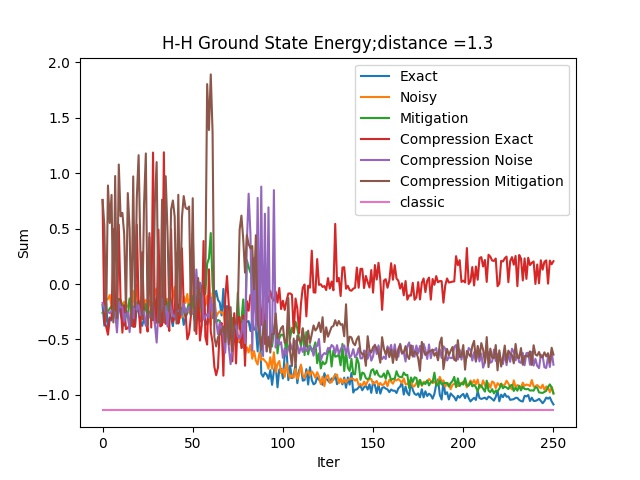
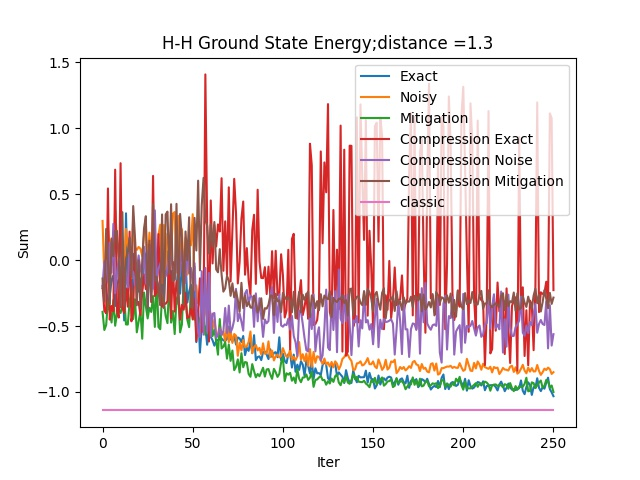
new exp

diff --git a/vqe/vqe_qiskit_noise_opt_H2_step_comp.py b/vqe/vqe_qiskit_noise_opt_H2_step_comp.py
@@ -66,7 +66,7 @@ def get_fixing_abs(weight,fix_para):
     fixing_abs= np.abs(weight-fix_para)
     return fixing_abs
 
-def compression(weight,percent=50):
+def compression(weight,percent=70):
     fixing_para = get_fixing_parameters(weight)
     weight_temp = get_fixing_abs(weight,fixing_para)
     percentile = np.percentile(weight_temp, percent)  # get a value for this percentitle
@@ -76,8 +76,9 @@ def compression(weight,percent=50):
 
 def store_intermediate_result(vqe,eval_count, parameters, mean, std):
     # print('intermediate res:\n')
-    print('='*50)
-    print('step {}, original Energy:{}'.format(eval_count,mean))
+    if eval_count%10 ==0:
+        print('='*50)
+        print('step {}, original Energy:{}'.format(eval_count,mean))
     # compress
     cparameters =  copy.deepcopy(parameters)
     parameters1 = compression(cparameters)
@@ -95,35 +96,54 @@ def store_intermediate_result(vqe,eval_count, parameters, mean, std):
     # print(parameters1)
     compression_length.append(len(t2))
     means = vqe.manual_energy_evaluation(parameters1)
-    print('step {}, after compression, Energy:{}'.format(eval_count,means))
+    if eval_count%10 ==0:
+        print('step {}, after compression, Energy:{}'.format(eval_count,means))
     exact_energies.append(mean)
-    compression_exact_energies.append(means)
-    return parameters1
+    # compression_exact_energies.append(means)
+    return parameters
 
 def store_intermediate_result_noise(vqe,eval_count, parameters, mean, std):
-    print('='*50)
-    print('step {}, original Energy:{}'.format(eval_count,mean))
-    print(parameters)
+    if eval_count%10 ==0:
+        print('='*50)
+        print('step {}, original Energy:{}'.format(eval_count,mean))
+    # print(parameters)
     # compress
     cparameters =  copy.deepcopy(parameters)
     parameters2 = compression(cparameters)
     means = vqe.manual_energy_evaluation(parameters2)
-    print('step {}, after compression, Energy:{}'.format(eval_count,means))
-    print(parameters2)
-    noisy_vqe_energies.append(mean)
+    if eval_count%10 ==0:
+        print('step {}, after compression, Energy:{}'.format(eval_count,means))
+    # print(parameters2)
+    # noisy_vqe_energies.append(mean)
     compression_noisy_vqe_energies.append(means)
     return parameters2
 
+def store_intermediate_result_noise_no_comp(vqe,eval_count, parameters, mean, std):
+    if eval_count%10 ==0:
+        print('='*50)
+        print('step {}, original Energy:{}'.format(eval_count,mean))
+    noisy_vqe_energies.append(mean)
+    return parameters
+
+def store_intermediate_result_noise_mitigation_no_comp(vqe,eval_count, parameters, mean, std):
+    if eval_count%10 ==0:
+        print('='*50)
+        print('step {}, original Energy:{}'.format(eval_count,mean))
+    noisy_mitigation_vqe_energies.append(mean)
+    return parameters
+
 def store_intermediate_result_noise_mitigation(vqe,eval_count, parameters, mean, std):
-    print('='*50)
-    print('step {}, original Energy:{}'.format(eval_count,mean))
+    if eval_count%10 ==0:
+        print('='*50)
+        print('step {}, original Energy:{}'.format(eval_count,mean))
     cparameters = copy.deepcopy(parameters)
     parameters2 = compression(cparameters)
     means = vqe.manual_energy_evaluation(parameters2)
-    print('step {}, after compression, Energy:{}'.format(eval_count,means))
-    noisy_mitigation_vqe_energies.append(mean)
+    if eval_count%10 ==0:
+        print('step {}, after compression, Energy:{}'.format(eval_count,means))
+    # noisy_mitigation_vqe_energies.append(mean)
     compression_noisy_mitigation_vqe_energies.append(means)
-
+    return parameters2
 
 backend = Aer.get_backend('aer_simulator')
 counts1 = []
@@ -203,58 +223,68 @@ var_form = TwoLocal(qubit_op.num_qubits,['ry','rz'], 'cry', 'circular', reps=2, 
 
 algo = VQE(qubit_op, var_form, optimizer, aux_operators=aux_ops,callback=store_intermediate_result,max_evals_grouped=32)
 vqe_result = algo.run(qi_state_vector)
-print('vqe_result:\n',vqe_result)
+# print('vqe_result:\n',vqe_result)
 vqe_result_molecule = operator.process_algorithm_result(vqe_result)
-print('vqe_result_molecule:\n',vqe_result_molecule)
+# print('vqe_result_molecule:\n',vqe_result_molecule)
 
 
-noisy_algo = VQE(qubit_op, var_form, optimizer, aux_operators=aux_ops,gradient= grad, callback=store_intermediate_result_noise,max_evals_grouped=32)
+noisy_algo = VQE(qubit_op, var_form, optimizer, aux_operators=aux_ops, callback=store_intermediate_result_noise)
 noisy_vqe_result = noisy_algo.run(qi_noise)
-print('noisy_vqe_result:\n',noisy_vqe_result)
+# print('noisy_vqe_result:\n',noisy_vqe_result)
 noisy_vqe_result_molecule = operator.process_algorithm_result(noisy_vqe_result)
-print('noisy_vqe_result_molecule:\n',noisy_vqe_result_molecule)
+# print('noisy_vqe_result_molecule:\n',noisy_vqe_result_molecule)
 
+noisy_algo = VQE(qubit_op, var_form, optimizer, aux_operators=aux_ops, callback=store_intermediate_result_noise_no_comp)
+noisy_vqe_result = noisy_algo.run(qi_noise)
+# print('noisy_vqe_result:\n',noisy_vqe_result)
+noisy_vqe_result_molecule = operator.process_algorithm_result(noisy_vqe_result)
+# print('noisy_vqe_result_molecule:\n',noisy_vqe_result_molecule)
 
-
-# noisy_mitigation_algo = VQE(qubit_op, var_form, optimizer, aux_operators=aux_ops, callback=store_intermediate_result_noise_mitigation)
-# noisy_mitigation_vqe_result = noisy_mitigation_algo.run(qi_noise_mitigation)
+noisy_mitigation_algo = VQE(qubit_op, var_form, optimizer, aux_operators=aux_ops, callback=store_intermediate_result_noise_mitigation)
+noisy_mitigation_vqe_result = noisy_mitigation_algo.run(qi_noise_mitigation)
 # print('noisy_mitigation_vqe_result:\n',noisy_mitigation_vqe_result)
-# noisy_mitigation_result_molecule = operator.process_algorithm_result(noisy_mitigation_vqe_result)
+noisy_mitigation_result_molecule = operator.process_algorithm_result(noisy_mitigation_vqe_result)
 # print('noisy_mitigation_result_molecule:\n',noisy_mitigation_result_molecule)
 
-# pylab.figure(1)
+noisy_mitigation_algo = VQE(qubit_op, var_form, optimizer, aux_operators=aux_ops, callback=store_intermediate_result_noise_mitigation_no_comp)
+noisy_mitigation_vqe_result = noisy_mitigation_algo.run(qi_noise_mitigation)
+# print('noisy_mitigation_vqe_result:\n',noisy_mitigation_vqe_result)
+noisy_mitigation_result_molecule = operator.process_algorithm_result(noisy_mitigation_vqe_result)
+# print('noisy_mitigation_result_molecule:\n',noisy_mitigation_result_molecule)
 
-# # pylab.plot(distances, hf_energies, label='Hartree-Fock')
-# # pylab.plot(distances, vqe_energies, 'o', label='vqe')
-# pylab.plot(range(0,len(exact_energies)), exact_energies,  label='Exact')
-# pylab.plot(range(0,len(noisy_vqe_energies)), noisy_vqe_energies, label='Noisy')
-# pylab.plot(range(0,len(noisy_mitigation_vqe_energies)), noisy_mitigation_vqe_energies, label='Mitigation')
+pylab.figure(1)
+
+# pylab.plot(distances, hf_energies, label='Hartree-Fock')
+# pylab.plot(distances, vqe_energies, 'o', label='vqe')
+pylab.plot(range(0,len(exact_energies)), exact_energies,  label='Exact')
+pylab.plot(range(0,len(noisy_vqe_energies)), noisy_vqe_energies, label='Noisy')
+pylab.plot(range(0,len(noisy_mitigation_vqe_energies)), noisy_mitigation_vqe_energies, label='Mitigation')
 # pylab.plot(range(0,len(compression_exact_energies)), compression_exact_energies, label='Compression Exact')
-# pylab.plot(range(0,len(compression_noisy_vqe_energies)), compression_noisy_vqe_energies, label='Compression Noise')
-# pylab.plot(range(0,len(compression_noisy_mitigation_vqe_energies)), compression_noisy_mitigation_vqe_energies, label='Compression Mitigation')
-# print(np.real(exact_result['eigenvalue']))
-# constant = np.full(max(len(exact_energies),len(noisy_vqe_energies),len(noisy_mitigation_vqe_energies)), np.real(exact_result['eigenvalue']))
-# pylab.plot(range(0,len(constant)),constant , label='classic')
-# pylab.xlabel('Iter')
-# pylab.ylabel('Sum')
-# pylab.title('H-H Ground State Energy;distance ={}'.format(dis))
-# pylab.legend(loc='upper right')
-# pylab.savefig('energy.jpg')
+pylab.plot(range(0,len(compression_noisy_vqe_energies)), compression_noisy_vqe_energies, label='Compression Noise')
+pylab.plot(range(0,len(compression_noisy_mitigation_vqe_energies)), compression_noisy_mitigation_vqe_energies, label='Compression Mitigation')
+print(np.real(exact_result['eigenvalue']))
+constant = np.full(max(len(exact_energies),len(noisy_vqe_energies),len(noisy_mitigation_vqe_energies)), np.real(exact_result['eigenvalue']))
+pylab.plot(range(0,len(constant)),constant , label='classic')
+pylab.xlabel('Iter')
+pylab.ylabel('Sum')
+pylab.title('H-H Ground State Energy;distance ={}'.format(dis))
+pylab.legend(loc='upper right')
+pylab.savefig('energy2.jpg')
 
-# # pylab.show()
+# pylab.show()
 
 
-# pylab.figure(2)
-# print(original_length)
-# print(compression_length)
+pylab.figure(2)
+print(original_length)
+print(compression_length)
 
-# pylab.plot(range(0,len(original_length)), original_length,  label='original')
-# pylab.plot(range(0,len(compression_length)), compression_length,  label='compression')
-# pylab.title('H-H Ground State Energy;distance ={}'.format(dis))
-# pylab.legend(loc='upper right')
-# pylab.xlabel('Iter')
-# pylab.ylabel('length')
-# pylab.savefig('length.jpg')
+pylab.plot(range(0,len(original_length)), original_length,  label='original')
+pylab.plot(range(0,len(compression_length)), compression_length,  label='compression')
+pylab.title('H-H Ground State Energy;distance ={}'.format(dis))
+pylab.legend(loc='upper right')
+pylab.xlabel('Iter')
+pylab.ylabel('length')
+pylab.savefig('length2.jpg')
 
 
 

diff --git a/vqe/vqe_qiskit_noise_opt_H2.py b/vqe/vqe_qiskit_noise_opt_H2.py
@@ -97,6 +97,7 @@ def store_intermediate_result(vqe,eval_count, parameters, mean, std):
     print('step {}, after compression, Energy:{}'.format(eval_count,means))
     exact_energies.append(mean)
     compression_exact_energies.append(means)
+    return parameters
 
 def store_intermediate_result_noise(vqe,eval_count, parameters, mean, std):
     print('='*50)
@@ -109,6 +110,7 @@ def store_intermediate_result_noise(vqe,eval_count, parameters, mean, std):
     print('step {}, after compression, Energy:{}'.format(eval_count,means))
     noisy_vqe_energies.append(mean)
     compression_noisy_vqe_energies.append(means)
+    return parameters
 
 def store_intermediate_result_noise_mitigation(vqe,eval_count, parameters, mean, std):
     print('='*50)
@@ -119,6 +121,7 @@ def store_intermediate_result_noise_mitigation(vqe,eval_count, parameters, mean,
     print('step {}, after compression, Energy:{}'.format(eval_count,means))
     noisy_mitigation_vqe_energies.append(mean)
     compression_noisy_mitigation_vqe_energies.append(means)
+    return parameters
 
 
 backend = Aer.get_backend('aer_simulator')
